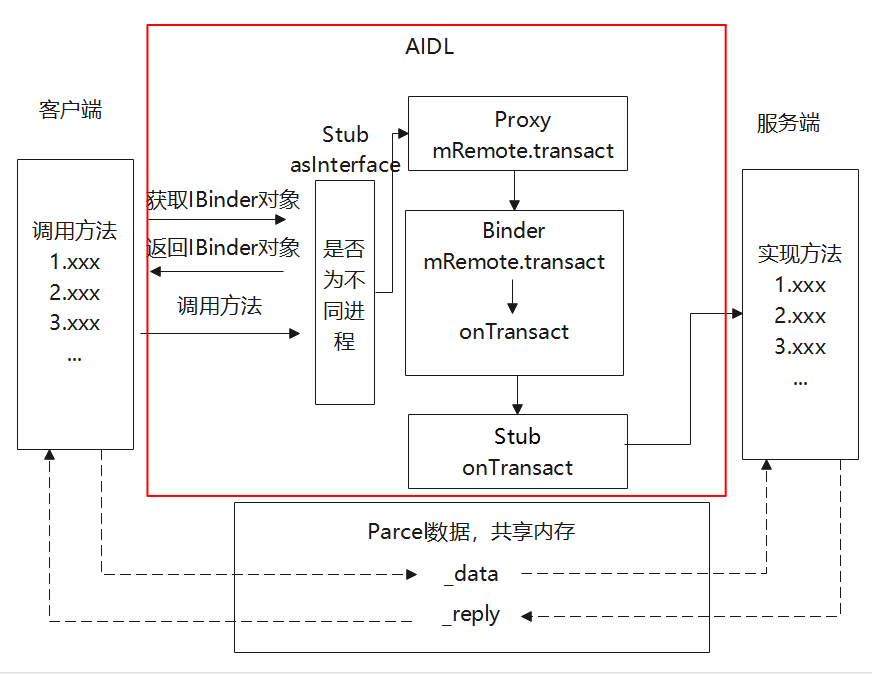
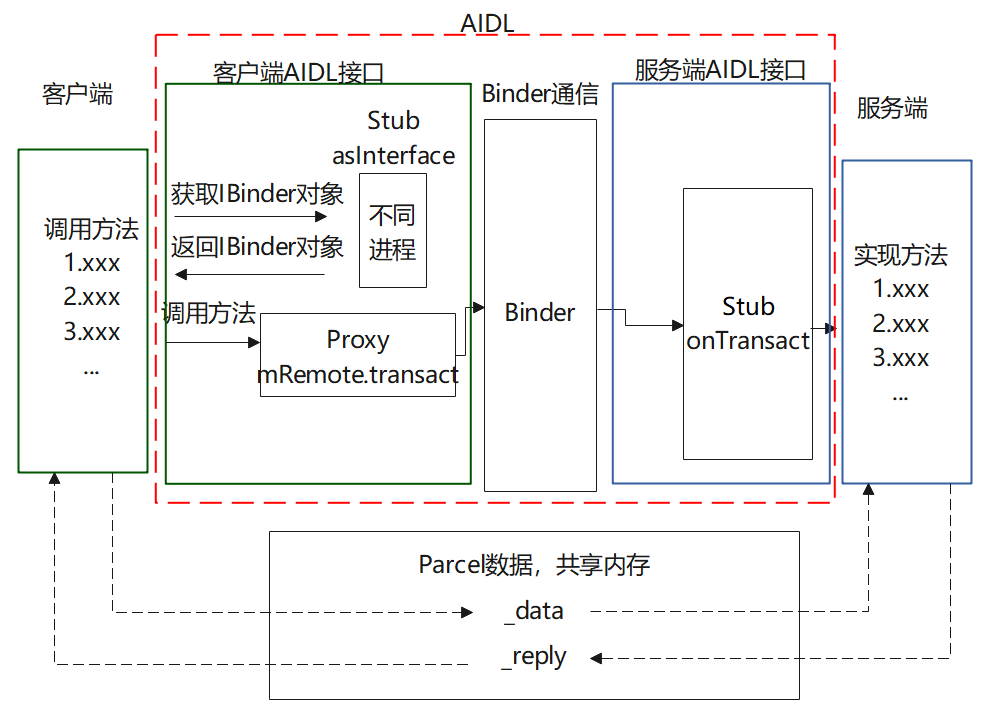
【CoolFly】【需求】【博客】【详细描述：CoolFly的第23次提交，修正aidl的流程图】【功能影响：修正aidl的流程图】【验证：自测ok】

diff --git a/2021/11/aidl源码分析/index.html b/2021/11/aidl源码分析/index.html
@@ -664,7 +664,7 @@
 
 <p>2.根据客户端和服务端的调用，如下图所示。</p>
 <p>客户端和服务端之间为AIDL，AIDL的内部调用在红色边框内部，也是简洁明了。</p>
-<p>实际上客户端和服务端的调用就是操作Parcel数据，这个是一种共享内存，即客户端和服务端可以抽象成虚线所示的调用关系。</p>
+<p>实际上客户端和服务端的调用就是操作Parcel数据，这个是一种<strong>共享内存</strong>，即客户端和服务端可以抽象成虚线所示的调用关系。绿色部分为客户端进程，蓝色部分为服务端进程，红色部分为AIDL的流程部分。</p>
 
 
  
